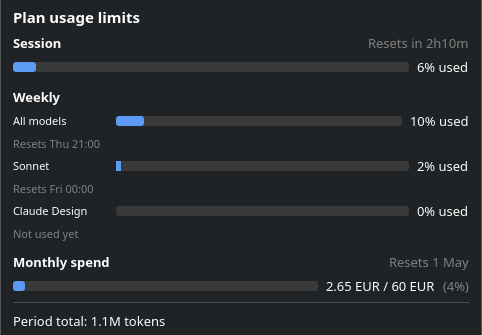
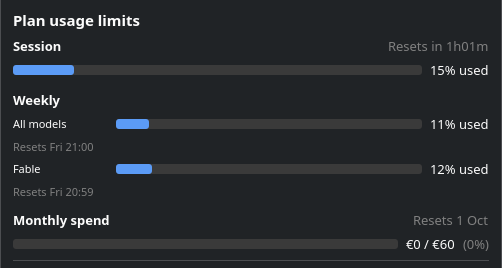
docs: update for 2.12.0
- Usage popup: period selector, Usage / By Model / By Project tabs,
  self-sizing window; drop "Days to show".
- Remove the long-context hint section, gone from the app.
- Complete the context-menu list and add its screenshot.
- Refresh the tooltip, popup, rate-limit and settings screenshots.

diff --git a/docs/getting-started.md b/docs/getting-started.md
@@ -13,23 +13,26 @@ CTFL starts as a system tray icon.
 ## Basic interactions
 
 - **Left-click** the tray icon to open the usage popup, or to bring it to the front if it is already open behind another window. Clicking again while it is in front closes it.
-- **Right-click** for the context menu (refresh, settings, check for updates, quit)
+- **Right-click** for the context menu: **Refresh Now**, **Profile** (when more than one is found, see [Profile](configuration.md#profile)), **Settings**, **Check for Updates**, the version entry (opens About), **Restart** and **Quit**
 - **Hover** over the icon to see a quick summary in the tooltip
 
+![Tray context menu](assets/images/context_menu.png)
 ![Tray tooltip](assets/images/tray_overlay.png)
 
 ## Usage popup
 
-The popup shows your token usage in several views:
+Pick a period in the dropdown under the plan limits: **Today**, **This week** or **This month**. Its total sits next to the dropdown, and the three tabs cover that period:
 
-- **Daily** — bar chart of tokens per day
-- **Models** — breakdown by Claude model
-- **Projects** — breakdown by working directory
+- **Usage** — tokens per day
+- **By Model** — breakdown by Claude model
+- **By Project** — breakdown by working directory
 
 ![Daily usage](assets/images/usage_daily.png){ width="380" }
 ![Per-model usage](assets/images/usage_models.png){ width="380" }
 
-Long lists scroll inside the tab instead of stretching the popup off-screen, so raising **Days to show** in Settings is safe. The first time it opens, the popup sizes itself to fit the tallest tab, so switching tabs never moves the window.
+The week starts on your locale's first day of the week, and CTFL remembers the period you picked. With **Estimate costs from local data** turned on in [Settings](configuration.md#display), the total, each day and each model also show an estimated cost at API list prices.
+
+The popup sizes itself to its content: the list shows three to seven rows and scrolls beyond that, so the window cannot be resized, and switching tabs never changes its size. It is an ordinary window, so it stays open when you click another application.
 
 Above the charts, the popup surfaces plan rate-limit bars fetched from `claude.ai`. Pro and Max plans show a session (5-hour) bar plus one bar per weekly bucket the API reports, each with its own reset timestamp. **All models** is always present; alongside it you may see per-model buckets such as **Fable**, and **Claude Design** in its own section. The exact set follows your plan and what Anthropic exposes, so it changes over time without a CTFL update.
 
@@ -38,16 +41,6 @@ A **monthly spend** bar appears whenever usage credits are configured — on Max
 ![Rate-limit section of the popup](assets/images/rate_limits.png){ width="480" }
 
 Buckets you haven't used yet (for example, Claude Design before first use) show **Not used yet** in place of a reset time, and are omitted from the compact tray tooltip.
-
-### Long-context usage hint
-
-When recent activity is dominated by large conversations, the popup surfaces a hint under the period total, for example:
-
-> Recent sessions: 61% of tokens used at >150k context · `/compact` mid-task, `/clear` between tasks
-
-Each message you send to Claude re-includes the whole conversation. Once the context passes ~150k tokens, each further reply is much more expensive — even with prompt caching. If you see this hint, running `/compact` mid-task or `/clear` when switching to unrelated work significantly reduces rate-limit burn.
-
-The hint is computed from the conversation logs Claude Code still keeps on disk. With **Days to show** capped at 30, that is normally the whole displayed period; a day whose logs Claude Code has already cleaned up is left out of the measurement.
 
 ## Next steps
 

diff --git a/docs/configuration.md b/docs/configuration.md
@@ -18,7 +18,6 @@ Choose where CTFL reads token usage data. See [Data Sources](data-sources.md) fo
 
 | Setting | Default | Description |
 |---|---|---|
-| **Days to show** | 7 | Number of days shown in the usage popup (1–30) |
 | **Show token breakdown** | On | Show input/output token split in bar charts |
 | **Estimate costs from local data** | Off | Calculate costs from local logs using public pricing |
 | **Auto-refresh** | On | Periodically refresh usage data |
